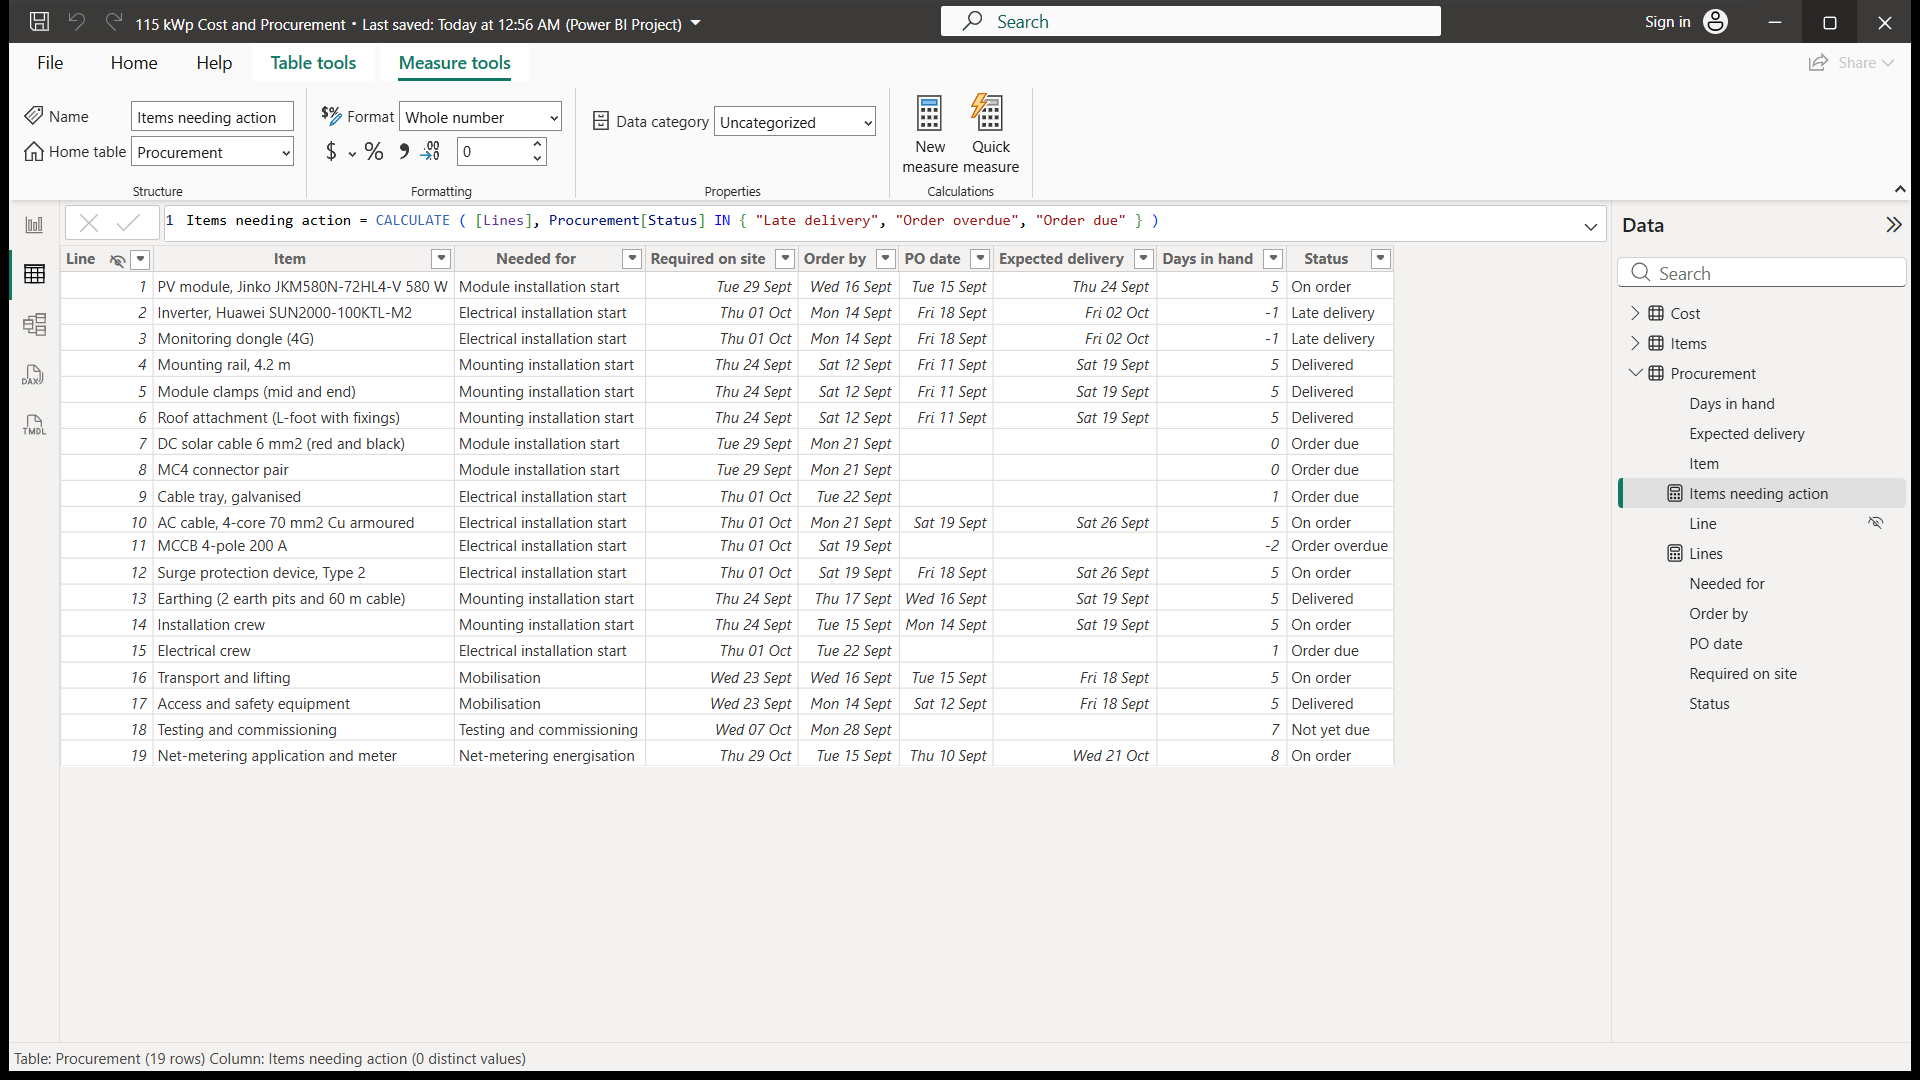
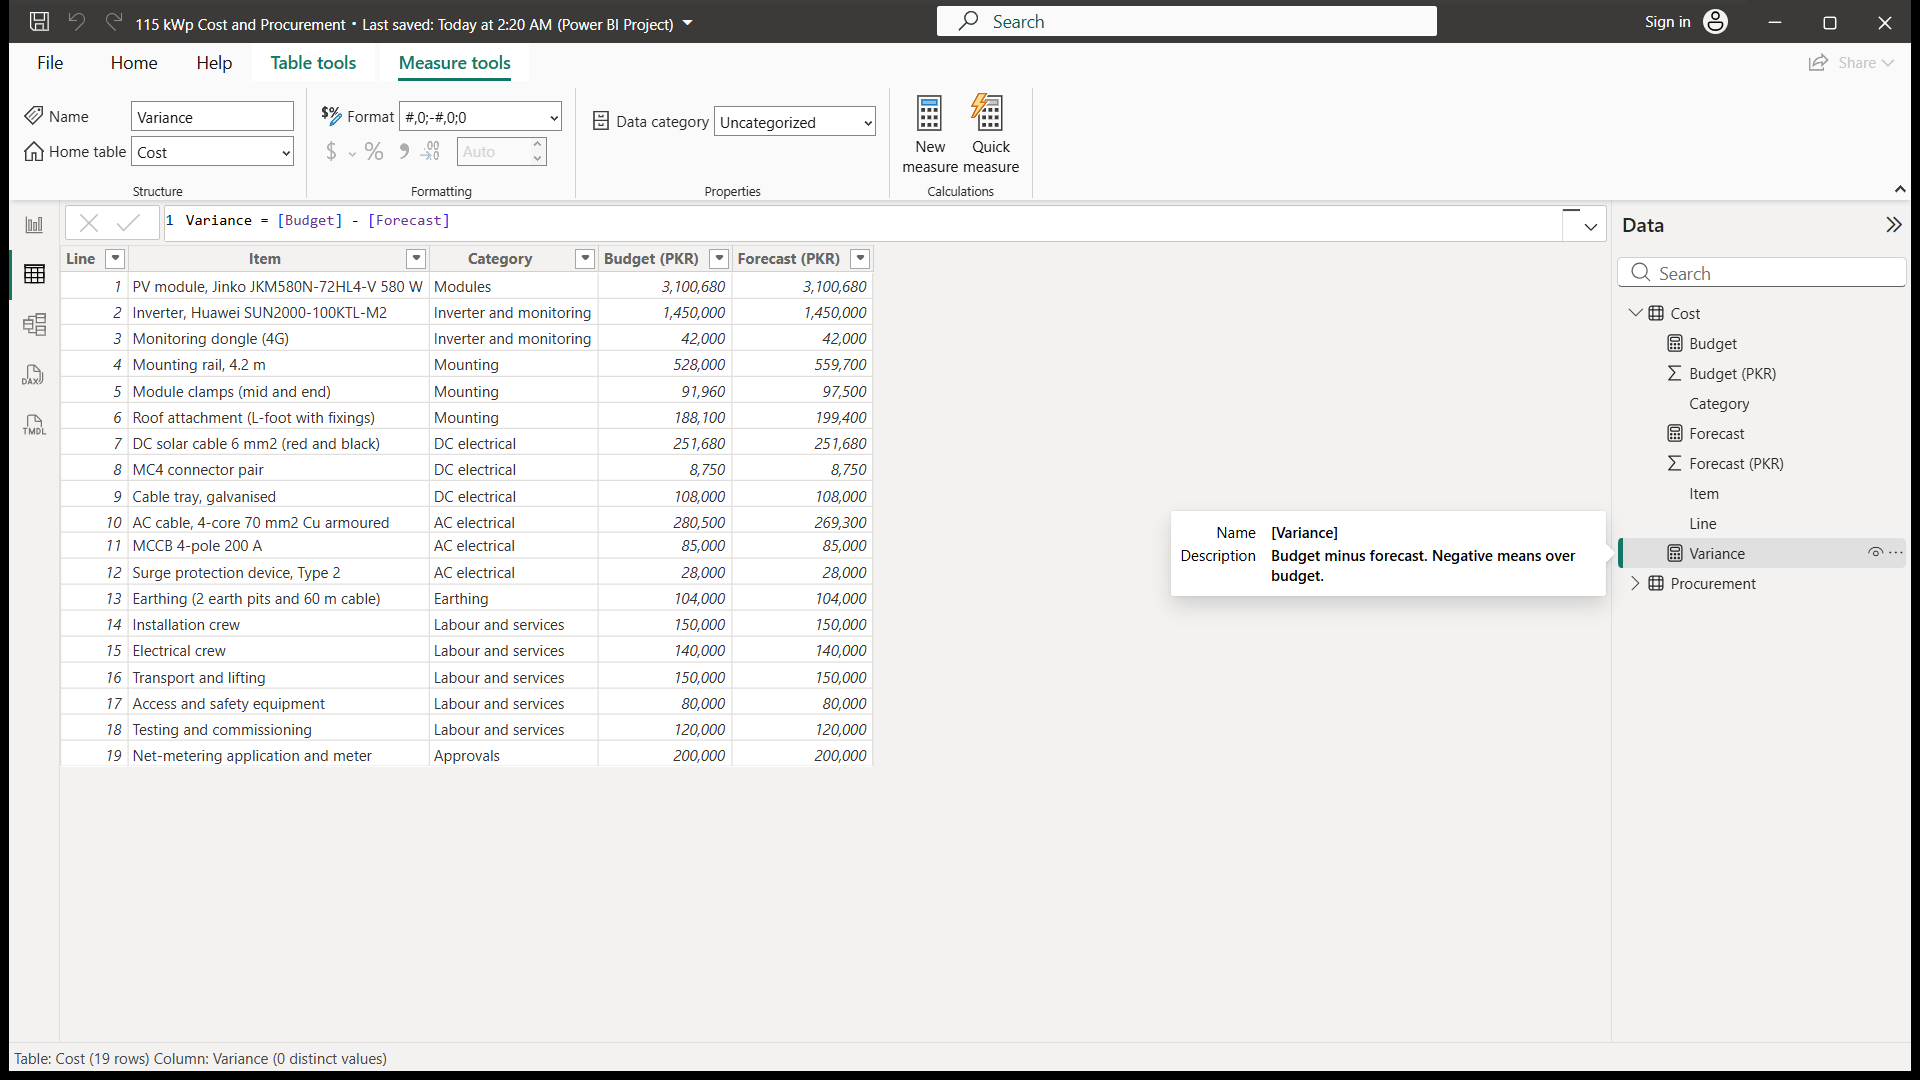
Make the Power BI project entry level
- Two tables (Cost and Procurement) straight from the Excel tracker, no
  relationships, four measures (Budget, Forecast, Variance, Lines)
- Power Query uses only clicked steps: remove other columns, filter out
  Excel's total row, change type
- One page: three cards, clustered bar, column chart, filtered table
- Screenshots now show the report page, the Power Query applied steps
  and the Variance measure; the data model shot is gone
- Captions keep "Power Query" capitalised

diff --git a/src/components/ToolArtifacts.tsx b/src/components/ToolArtifacts.tsx
@@ -117,24 +117,24 @@ export function buildToolArtifacts(shots: Record<string, MediaItem[]>): Record<s
             <>
               <p>
                 An entry-level Power BI report built on the Excel tracker behind the Advanced Excel chip, so the two tools
-                tell one story: Excel holds the data, Power BI reports on it. Power Query loads three tables from the
-                workbook, the model links them on the BOM line number, and seven DAX measures drive the page.
+                tell one story: Excel holds the data, Power BI reports on it. Power Query loads two tables from the
+                workbook in three clicked steps (keep the columns needed, remove Excel&apos;s total row, set the data
+                types), and four DAX measures drive the page: Budget, Forecast, Variance and Lines.
               </p>
               <p>
-                The page shows budget, forecast, variance and the share already committed, budget against forecast by
-                category, lines by procurement status, a supplier slicer, and a table of the items that need action. The
-                figures match the Excel workbook exactly. It is a demonstration project with illustrative PKR rates, and
-                the screenshots are from Power BI Desktop itself.
+                The page shows budget, forecast and variance, budget against forecast by category, BOM lines by
+                procurement status, and a table of the items that need action. The figures match the Excel workbook
+                exactly. It is a demonstration project with illustrative PKR rates, and the screenshots are from Power BI
+                Desktop itself.
               </p>
             </>
           }
           notes={{
             "Report page":
-              "Cards, a clustered bar chart, a donut, a slicer and a table with a visual-level filter showing only red and amber lines",
-            "Data model":
-              "A small star: Items is the dimension, Cost and Procurement are facts, joined one-to-many on Line",
-            "DAX measure":
-              "Items needing action uses CALCULATE with an IN filter on Status. The formula bar shows the measure",
+              "Three cards, a clustered bar chart, a column chart, and a table with a visual-level filter showing only the 7 lines that need action",
+            "Power Query":
+              "The applied steps on the right: remove other columns, filter out Excel's total row, set the data types. All 19 BOM lines come through",
+            "DAX measure": "Variance = [Budget] - [Forecast], shown in the formula bar with the measure's description",
           }}
         />
       ),

diff --git a/src/lib/media.ts b/src/lib/media.ts
@@ -31,6 +31,7 @@ const FIXES: Record<string, string> = {
   helioscope: "Helioscope",
   opensolar: "OpenSolar",
   dax: "DAX",
+  query: "Query",
   bom: "BOM",
 };
 
